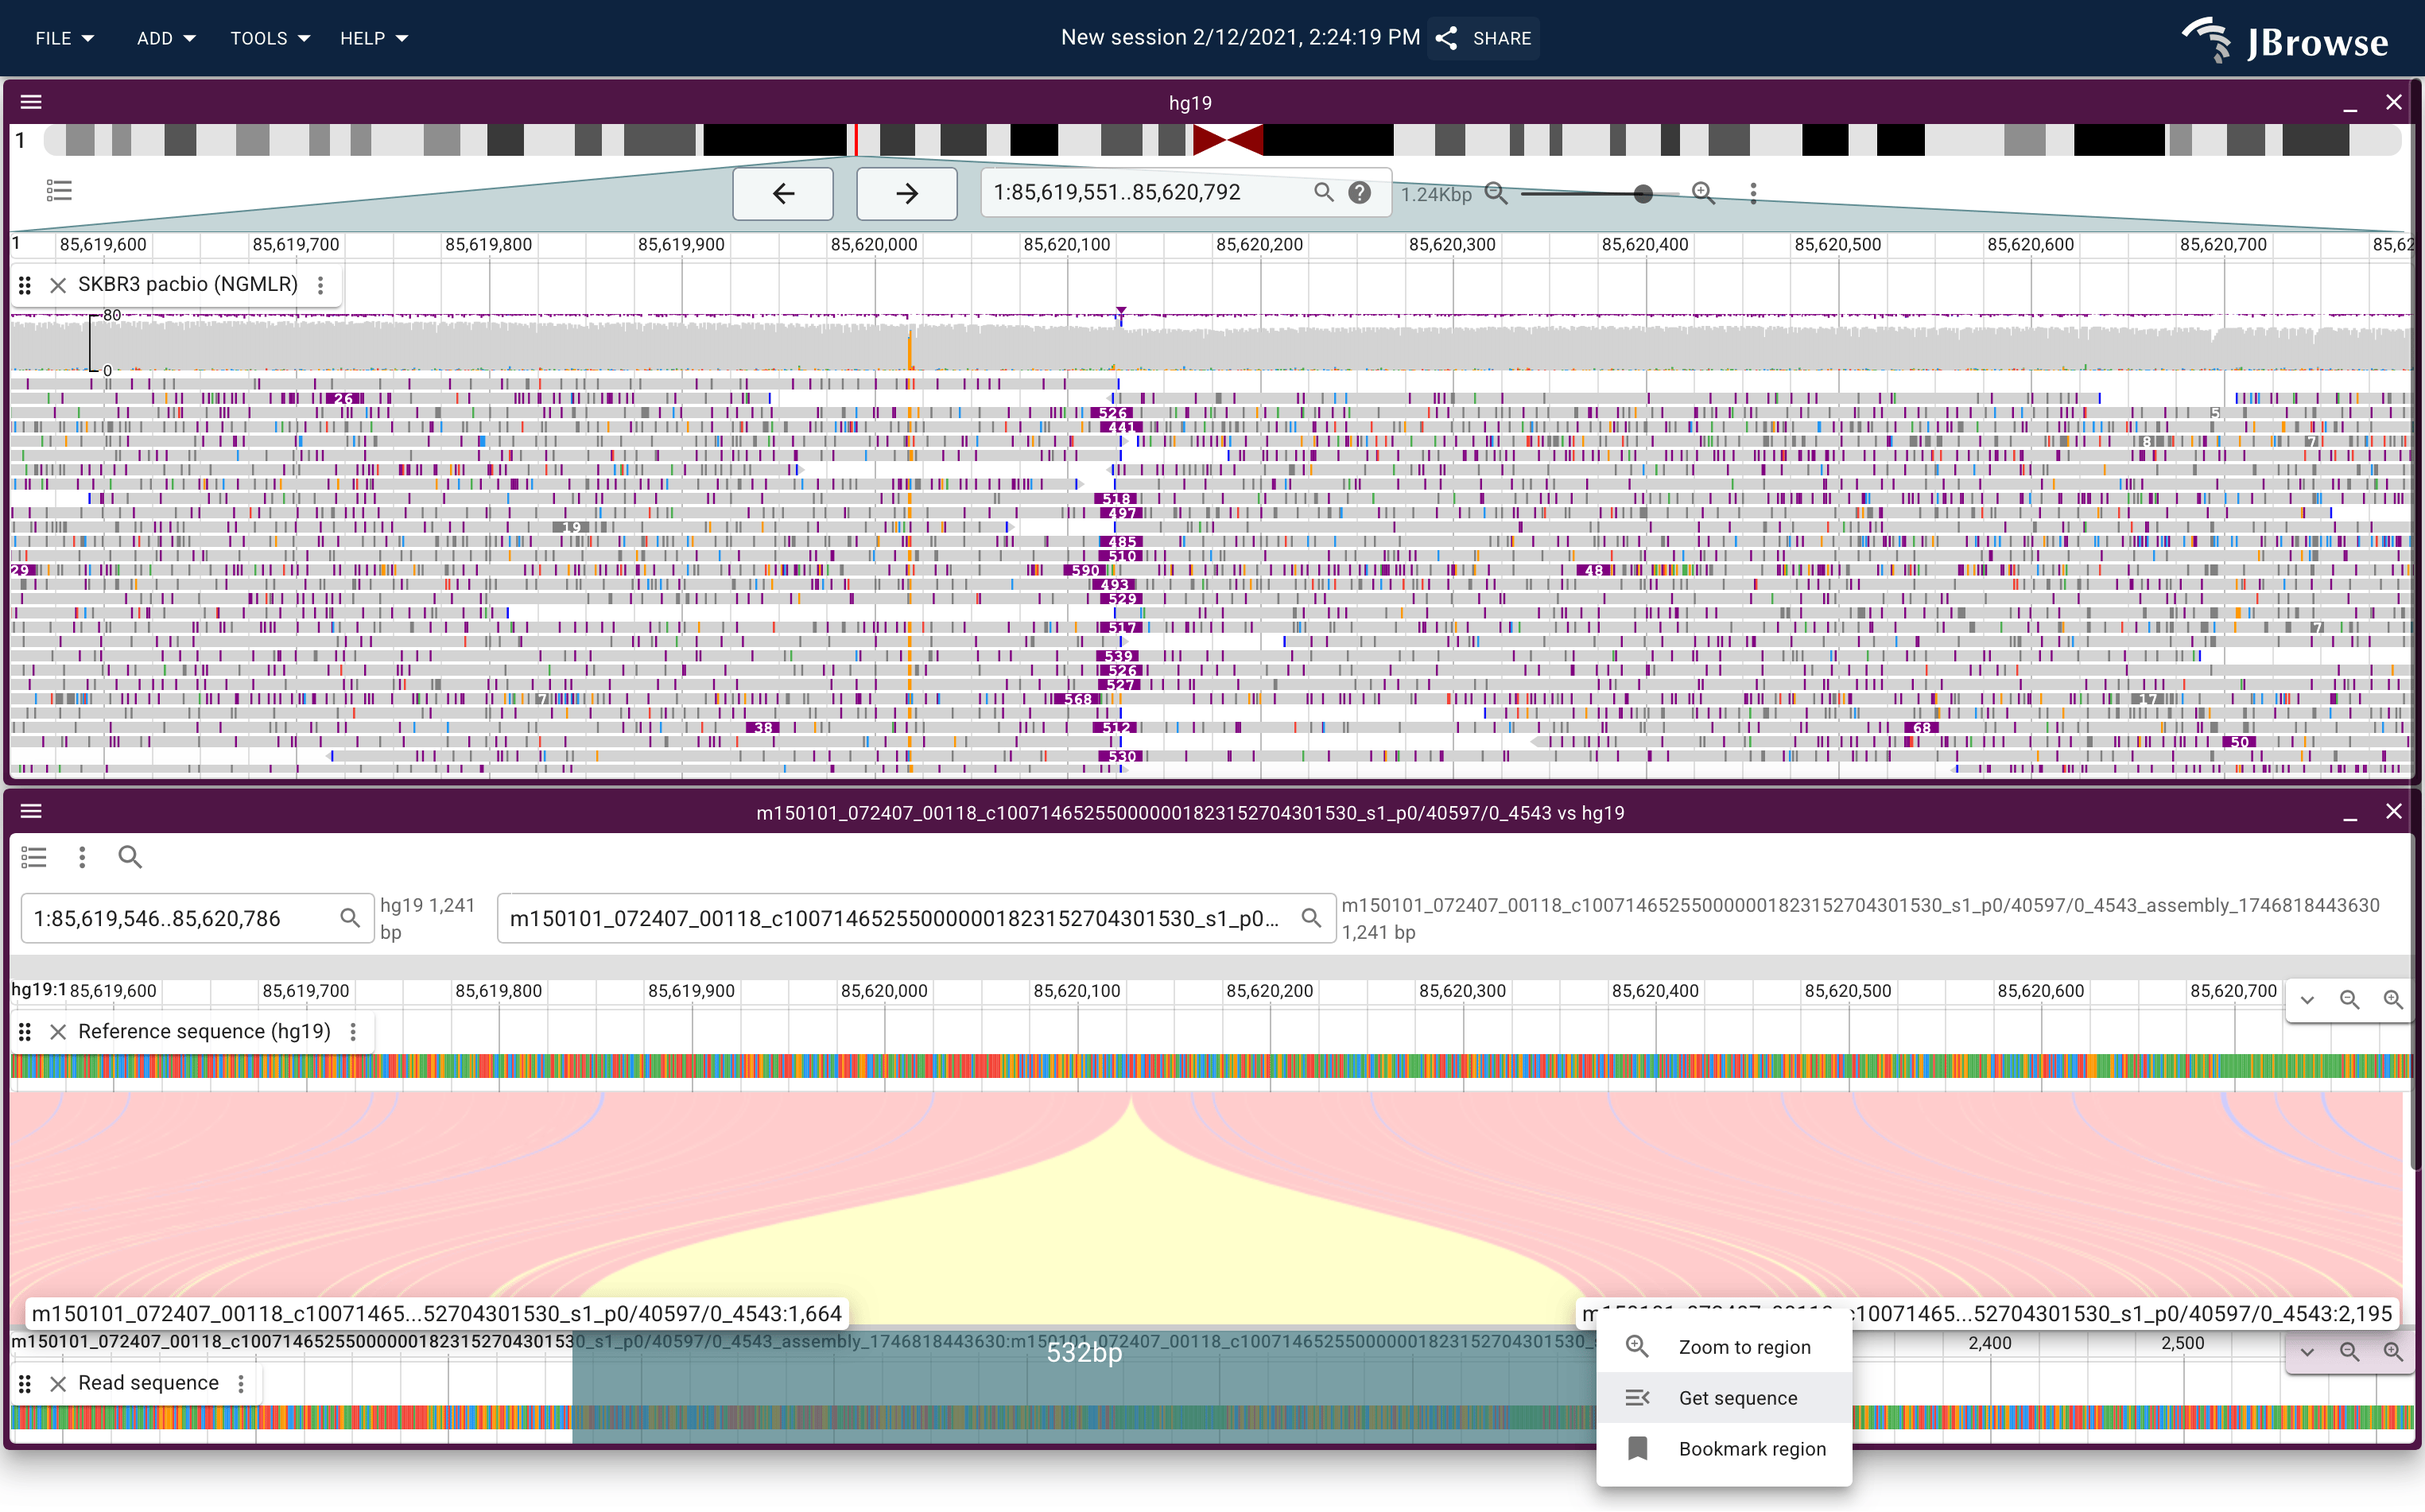
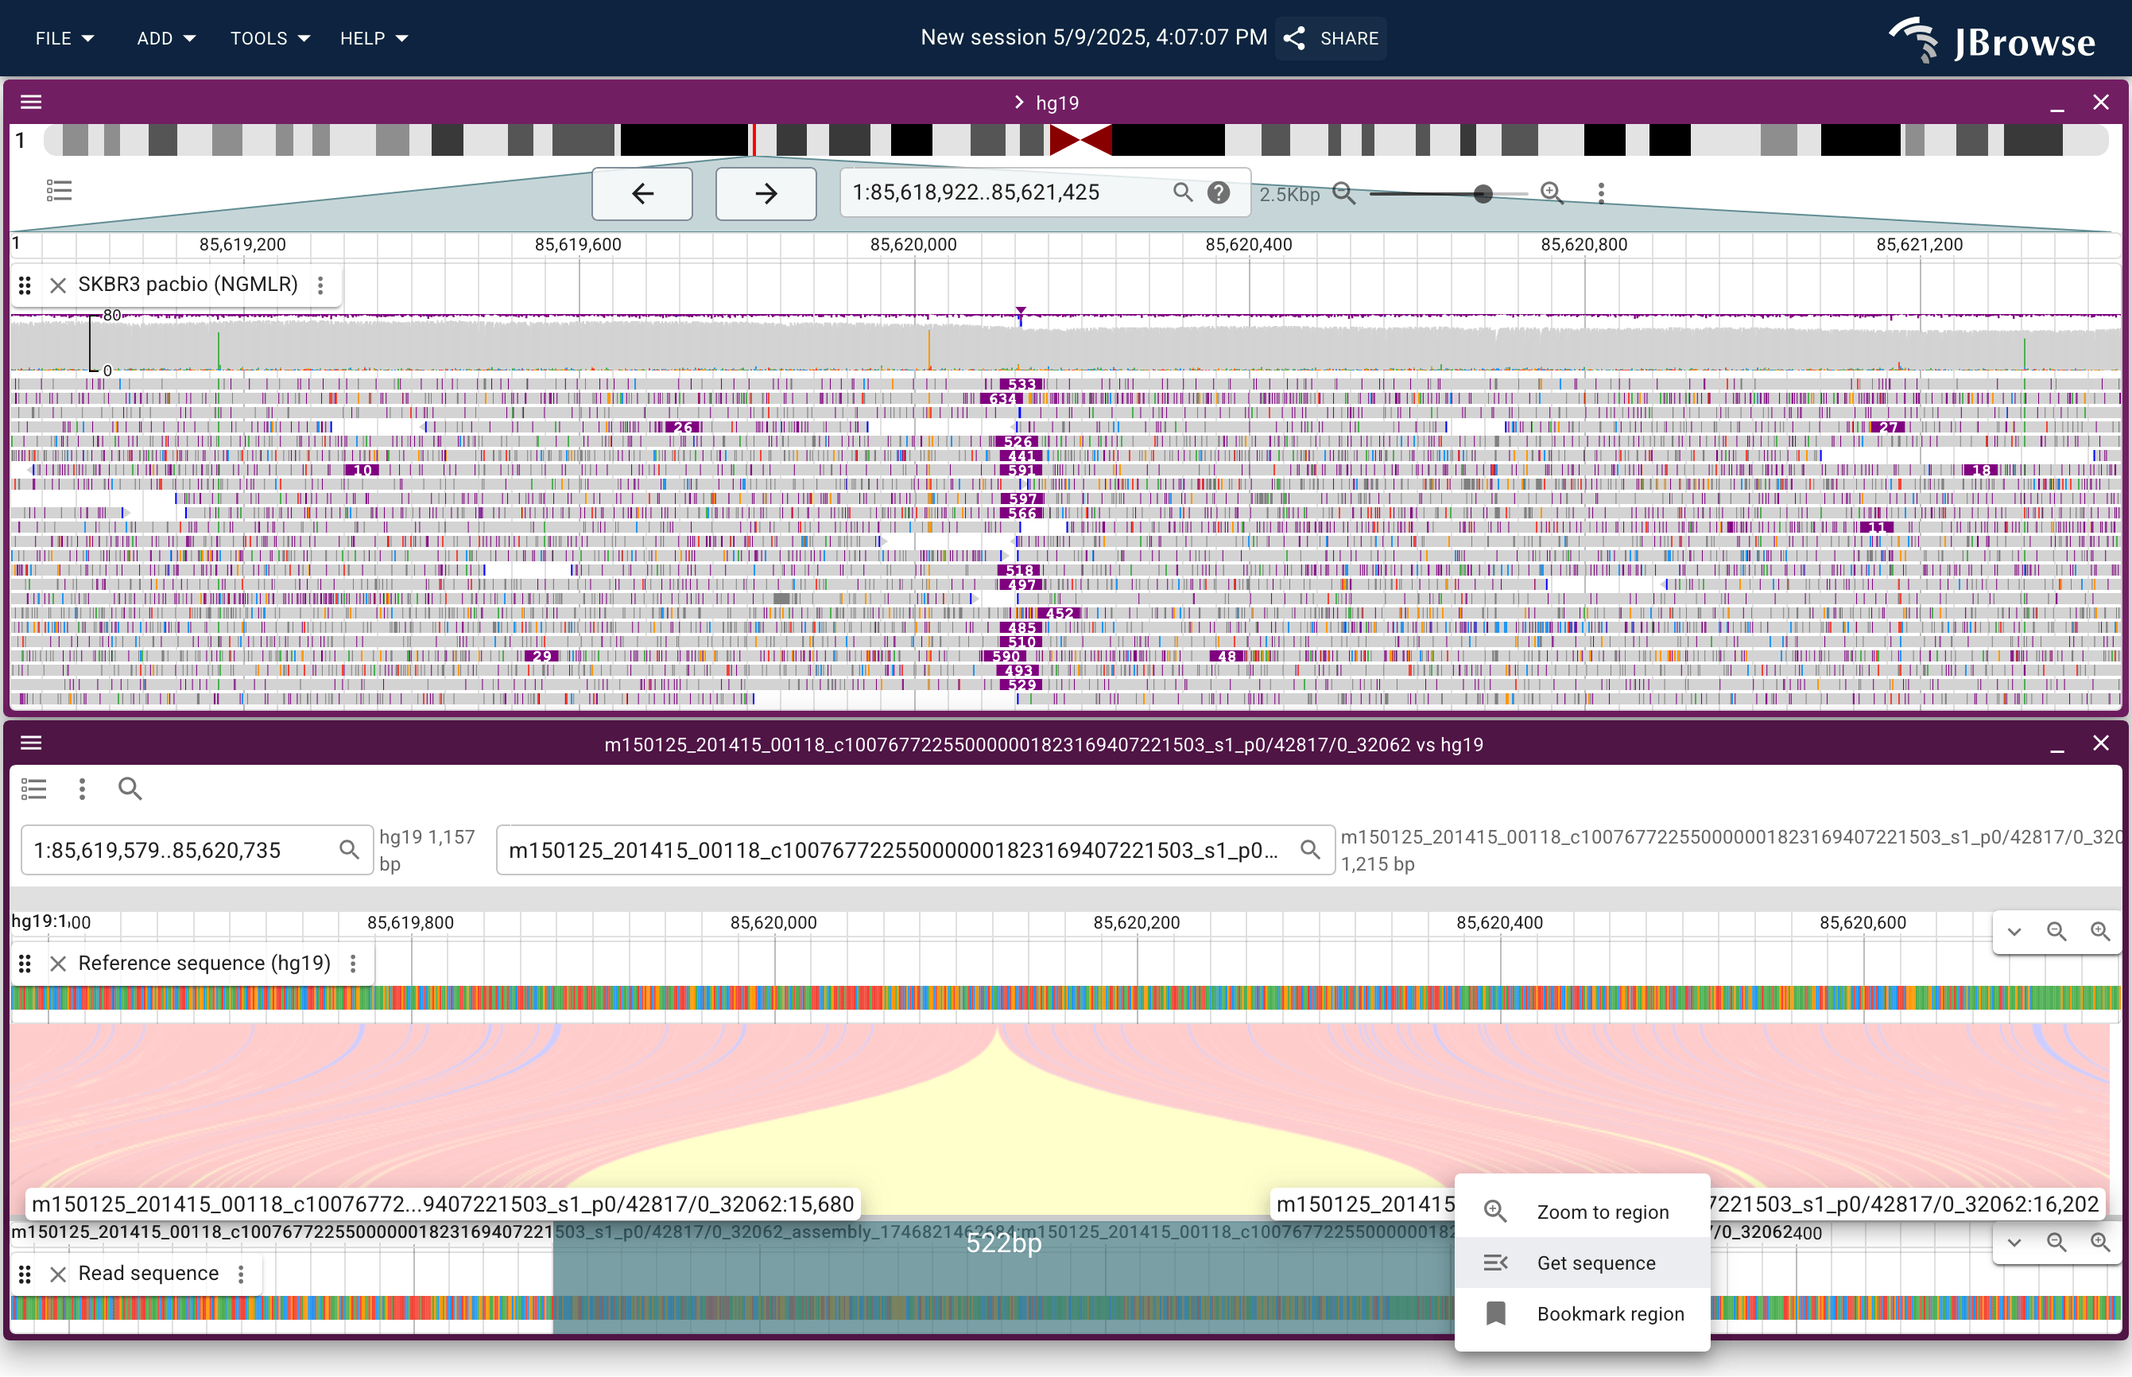
[skip ci] More live links

diff --git a/website/src/pages/gallery.md b/website/src/pages/gallery.md
@@ -81,35 +81,41 @@ line, with feet indicating directionality)
 
 ---
 
-![](/img/color_by_tag.png)
+![](/img/smalldel.png)
 
-Image of coloring and sorting by the HP (haplotype) tag, which can be done for
-BAM and CRAM. Users can color, sort, and filter by tags
+Screenshot showing a heterozygous small deletion in the GIAB dataset. The
+nanopore reads are colored and sorted by the HP (haplotype) tag which helps show
+that the deletion is exclusive to one haplotype. Users can color, sort, group,
+and filter by tags
+([live link](https://jbrowse.org/code/jb2/main/?config=test_data%2Fconfig_demo.json&session=share-psOr2x2efp&password=bErZE))
 
 ---
 
-![](/img/insertion_indicators.png)
+![](/img/insertion.png)
 
-The browser has a variety of ways to help show insertions including "large
-insertion indicators" (a feature also seen in IGV) and upside down histogram of
-insertion/clipping counts
+Screenshot showing a ~1.5kb insertion in the GIAB dataset, with Nanopore,
+PacBio, and Illumina reads. This screenshot shows the "Show soft clipping"
+option enabled on the Illumina reads, which helps reveal the boundaries of the
+insertion on the short reads, while the long reads fully span the insertion
+([live link](https://jbrowse.org/code/jb2/main/?config=test_data/config_demo.json&session=share-oTyYRpz9fN&password=fYAbt))
 
 ---
 
 ![](/img/read_vs_ref_insertion.png)
 
-The read vs reference visualization on a ~500 base pair insert in PacBio reads
-from the SKBR3 (breat cancer) cell line. Users can right-click sequence reads,
-then click "read vs reference" to show complex read alignments in a "synteny
-style" view. Users can also interactively get the sequence of this inserted read
-portion with a click-and-drag action
+Screenshot showing a ~500bp insertion from SKBR3 (breast cancer) cell line
+PacBio reads. Users can right-click sequence reads, then click "read vs
+reference" to show complex read alignments in a "synteny style" view (lower
+panel). Users can also interactively get the sequence of read portions with a
+click-and-drag action (lower panel, in blue)
+([live link](https://jbrowse.org/code/jb2/main/?config=test_data%2Fconfig_demo.json&session=share-rzJ27iixQH&password=rSgZe))
 
 ---
 
 ![](/img/modifications.png)
 
 A methylated and unmethylated CpG island shown using the MM tag with nanopore
-reads on the COLO829 (melanoma) cancer cell line
+reads on the COLO829 (melanoma) cancer cell line. This dataset
 ([live link](https://jbrowse.org/code/jb2/main/?config=test_data%2Fconfig_demo.json&session=share-LffYr8SI5E&password=VmZVl))
 
 ---
